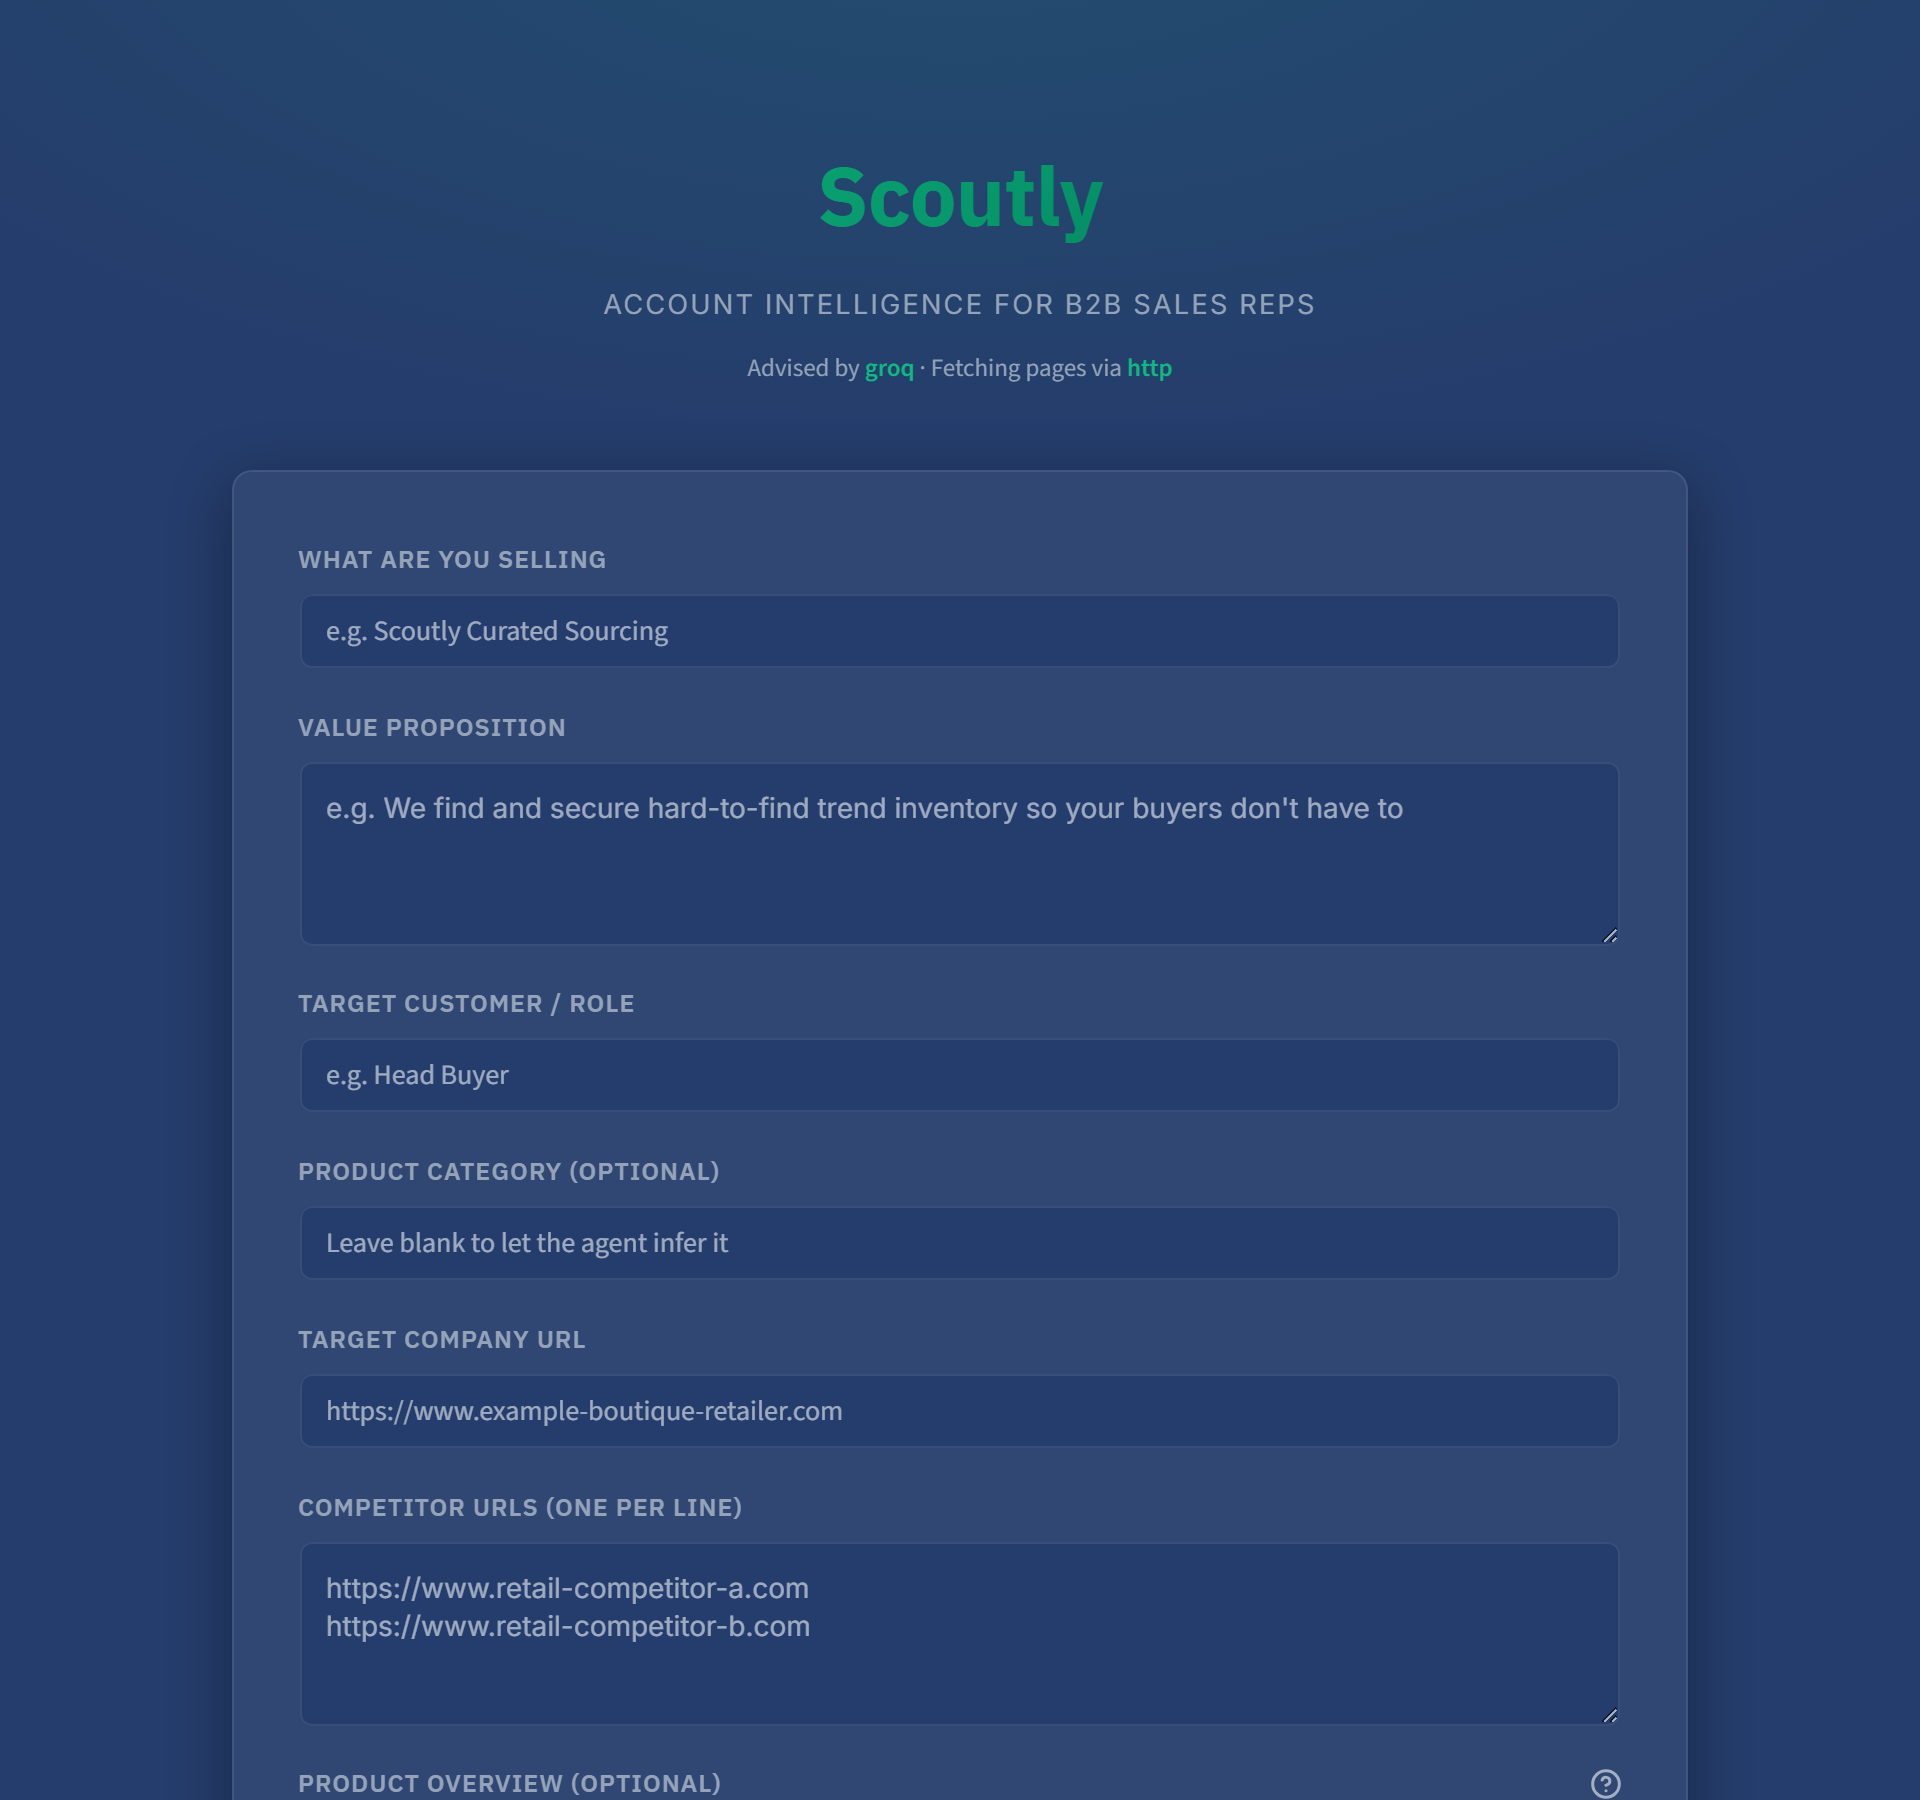
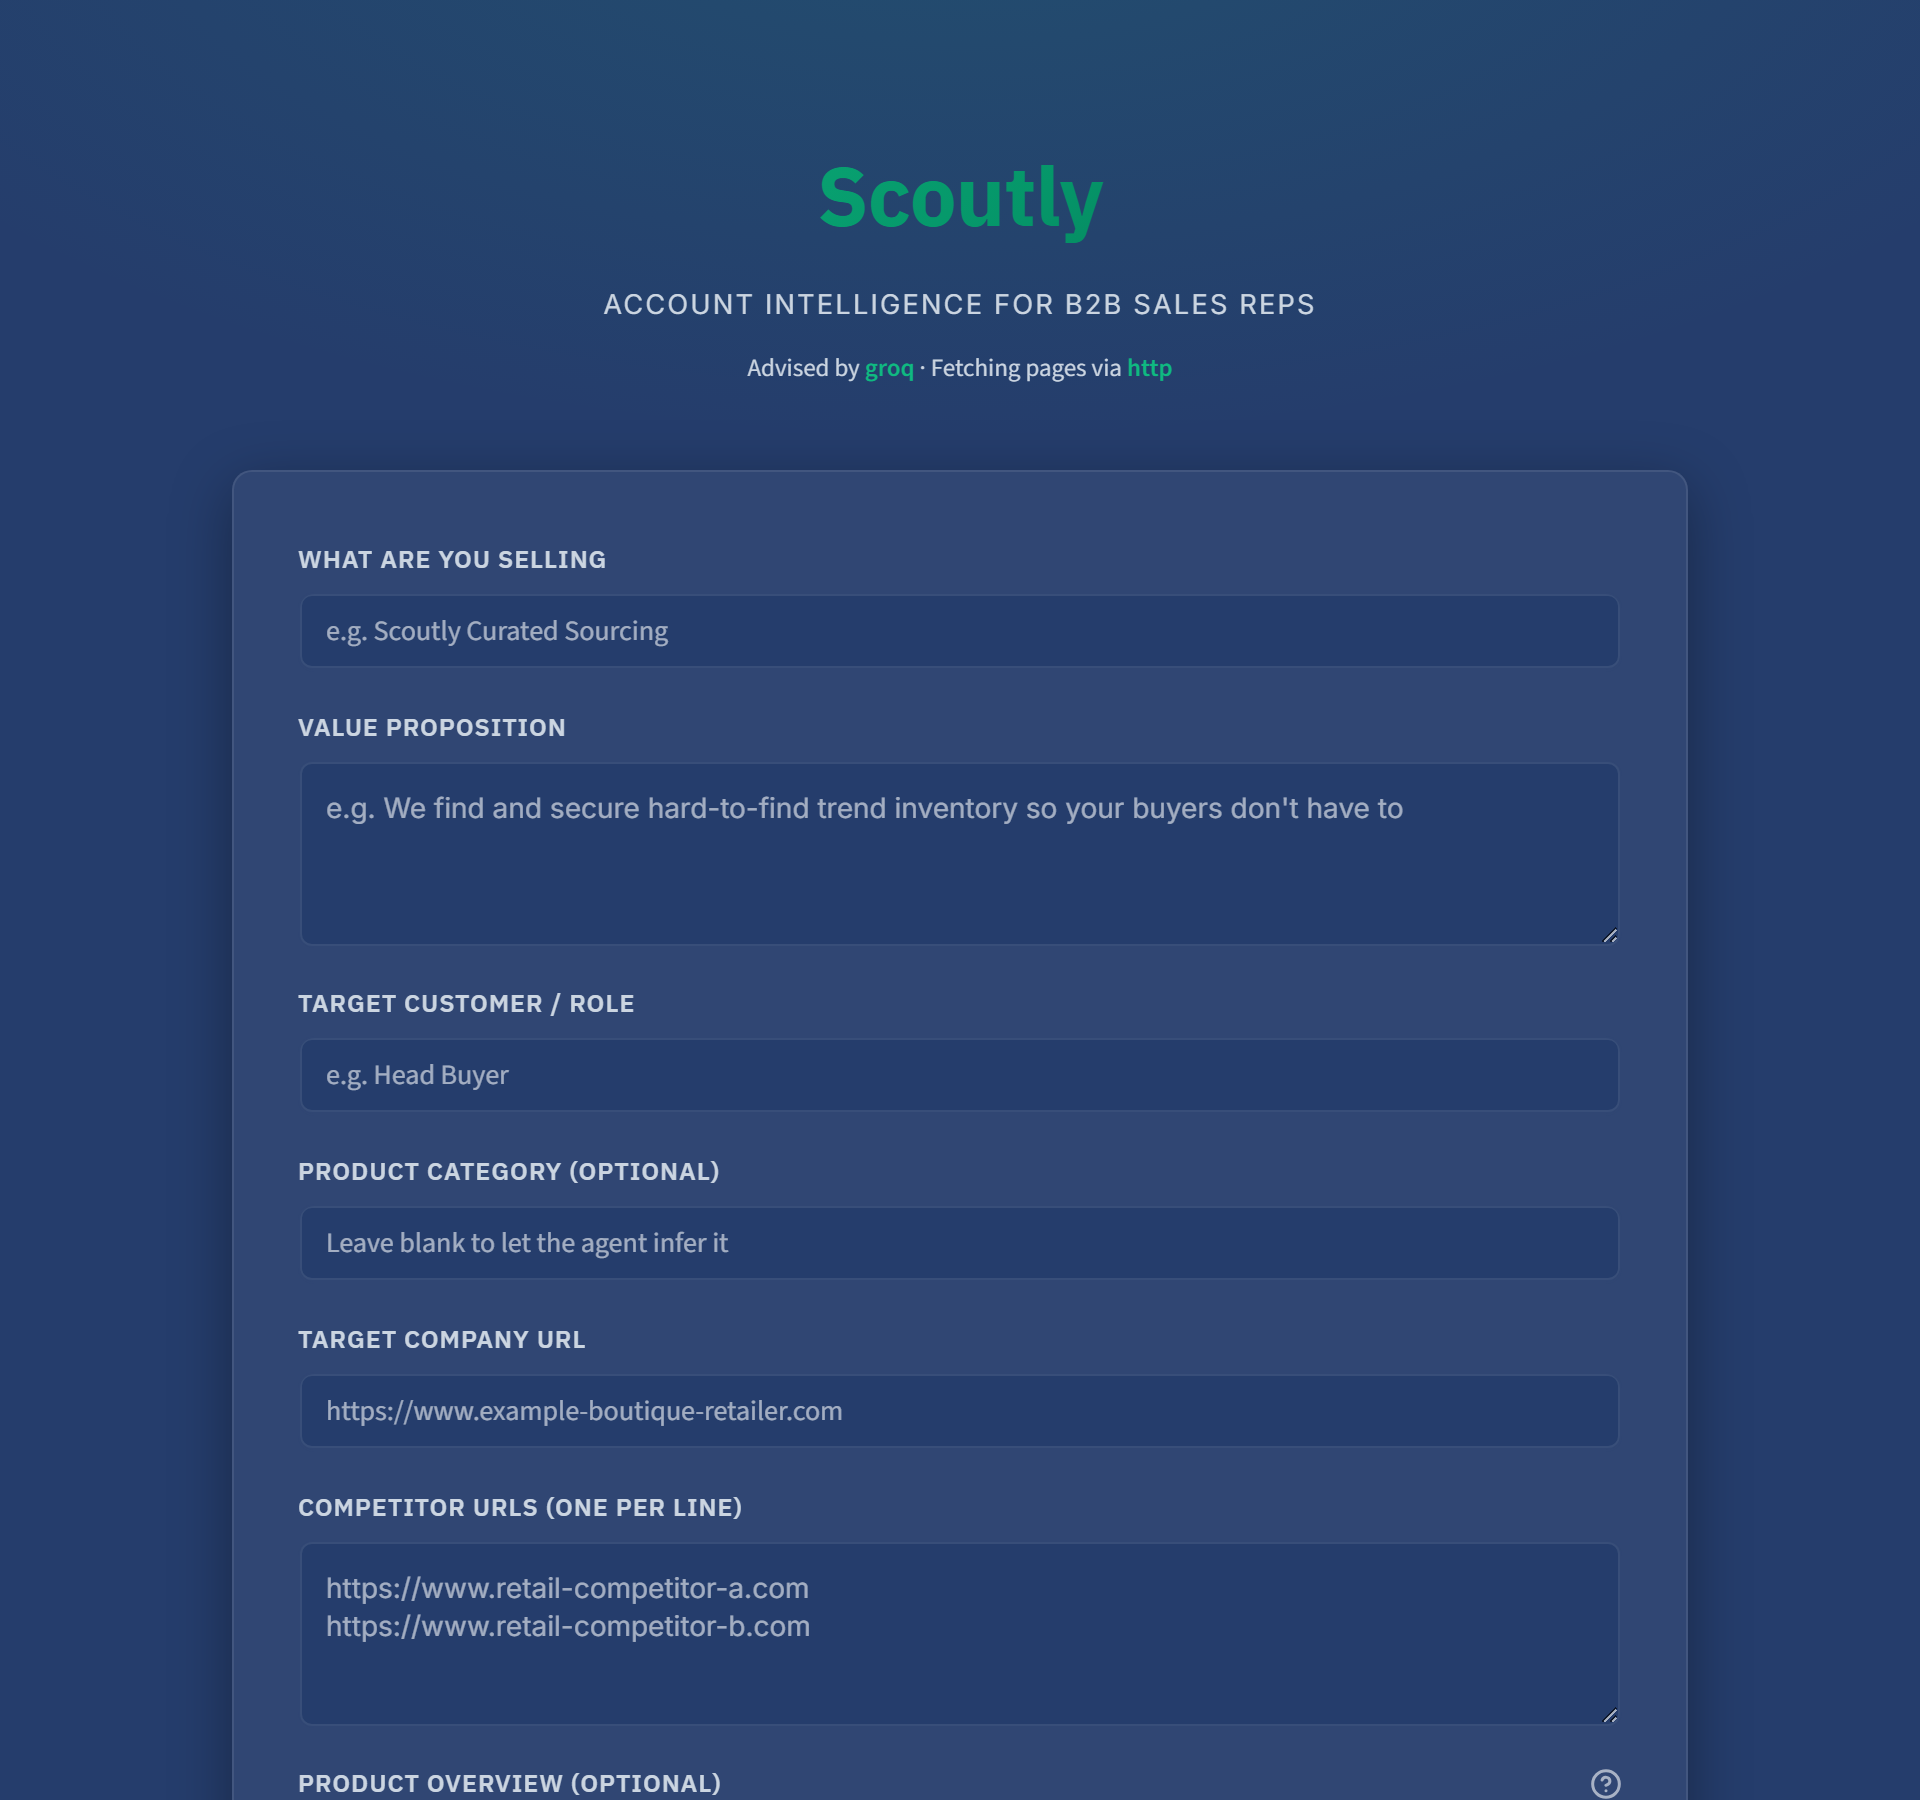
Brighten and lighten body/label text for contrast on the lighter navy
Ink moves to a crisper near-white and muted labels move from slate-400
to slate-300, keeping the same hue relationships but improving legibility
now that the background is lighter. Screenshots regenerated.

diff --git a/streamlit_app.py b/streamlit_app.py
@@ -61,8 +61,8 @@ THEME_CSS = """
     --sc-accent-bright: #10B981;
     --sc-accent-deep: #065F46;
     --sc-accent-soft: rgba(16, 185, 129, 0.12);
-    --sc-ink: #F1F5F9;
-    --sc-muted: #94A3B8;
+    --sc-ink: #F8FAFC;
+    --sc-muted: #CBD5E1;
     --sc-panel: #304673;
     --sc-bg: #253D6C;
     --sc-border: rgba(226, 232, 240, 0.10);

diff --git a/README.md b/README.md
@@ -385,7 +385,9 @@ addresses from the server.
   the same emerald accent, keeping the gradient/glow "pop" treatment but
   landing on a background distinct from both Trendora's black and the
   intermediate ivory version — then lightened to a mid-tone navy for a
-  softer, less cave-like feel while keeping the same hue and accent.
+  softer, less cave-like feel while keeping the same hue and accent, with
+  body and label text brightened to a crisper near-white and light
+  slate for better contrast against the lighter background.
 
 ## 14. Problems I ran into, and how I fixed them
 
